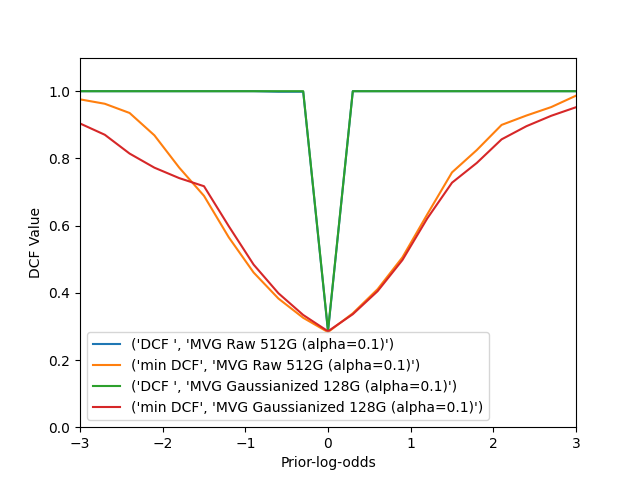
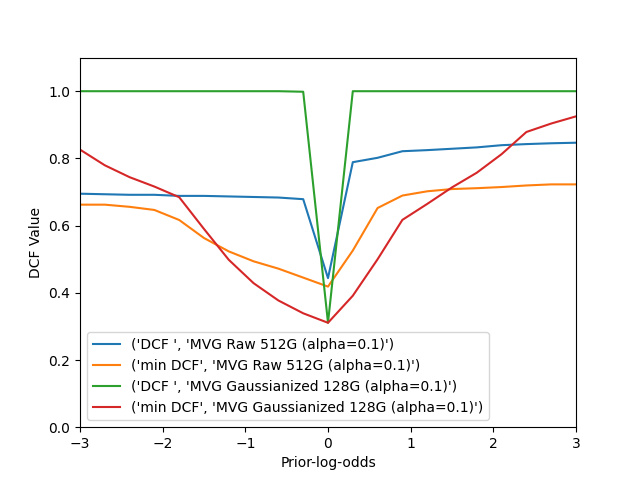
Fixed GMM LBG Algorithm

diff --git a/src/GMM.py b/src/GMM.py
@@ -117,13 +117,22 @@ def GMM_EM(X, gmm, G, threshold, method='MVG', psi=0):
     return gmm, SPost, logdens
 
 
-def GMM_LBG(X, G=2, threshold=10**(-6), alpha=0.1, psi=0, method='MVG'):
+def GMM_LBG(X, G, threshold=10**(-6), alpha=0.1, psi=0, method='MVG'):
     mu = mcol(GAU_mu_ML(X))
     C = covarianceMatrix(X)
     C = optimizeCovDegenerateCases(C, psi)  # Constraint on initial GMM Covariances to avoid degenerate cases
+    if method == 'NBG' or method == 'TCNB':
+        C = C * np.eye(C.shape[0])
     gmm = [(1.0, mu, C)]
 
+    if G == 1:
+        SJoint = GMM_joint_density(X, gmm, G)
+        logdens = marginal_densities(SJoint)
+        SPost = posterior_probabilites(SJoint, logdens)
+        return gmm, SPost, logdens
+
     numIter = int(np.log2(G))
+    tmpG = 1
     for _ in range(0, numIter):
         def split_GMM(gmm_i):
             w_i, mu_i, C_i = gmm_i
@@ -138,9 +147,10 @@ def GMM_LBG(X, G=2, threshold=10**(-6), alpha=0.1, psi=0, method='MVG'):
             gmm_i_1, gmm_i_2 = split_GMM(gmm_i)
             new_gmm.append(gmm_i_1)
             new_gmm.append(gmm_i_2)
-        gmm = new_gmm
+        tmpG = tmpG * 2
+        gmm, SPost, logdens = GMM_EM(X, new_gmm, tmpG, threshold, method, psi)
 
-    return GMM_EM(X, gmm, G, threshold, method, psi)
+    return gmm, SPost, logdens
 
 
 '''

diff --git a/src/mainGMM.py b/src/mainGMM.py
@@ -125,11 +125,12 @@ def main_find_best_G():
         print(f'({model}) Gau -> minDCF = {MINDCF_GAU.min()}, G={G[np.where(MINDCF_GAU == MINDCF_GAU.min())[0][0]]}')
         plot_MinDCF_GMM(model, MINDCF_RAW, MINDCF_GAU, G)
 
+
 def main_best_models():
     D, L = load_db()
     alpha = 0.1
     
-    for p in [0.5, 0.1]:
+    for p in [0.5, 0.1, 0.9]:
         compute_GMM_DCFMin(D, L, p, 512, alpha, False, 'MVG')
         compute_GMM_DCFMin(D, L, p, 128, alpha, True, 'MVG')
         compute_GMM_DCFMin(D, L, p, 128, alpha, True, 'TCG')
@@ -200,9 +201,9 @@ if __name__ == '__main__':
     # main_tuning_alpha()
     # main_find_best_G()
     # main_best_models()
-    # main_BayesPlot()
-    main_BayesPlotNOTRAIN()
-    
+    main_BayesPlot()
+    # main_BayesPlotNOTRAIN()
+
 '''
 # BEST MODELS
 
